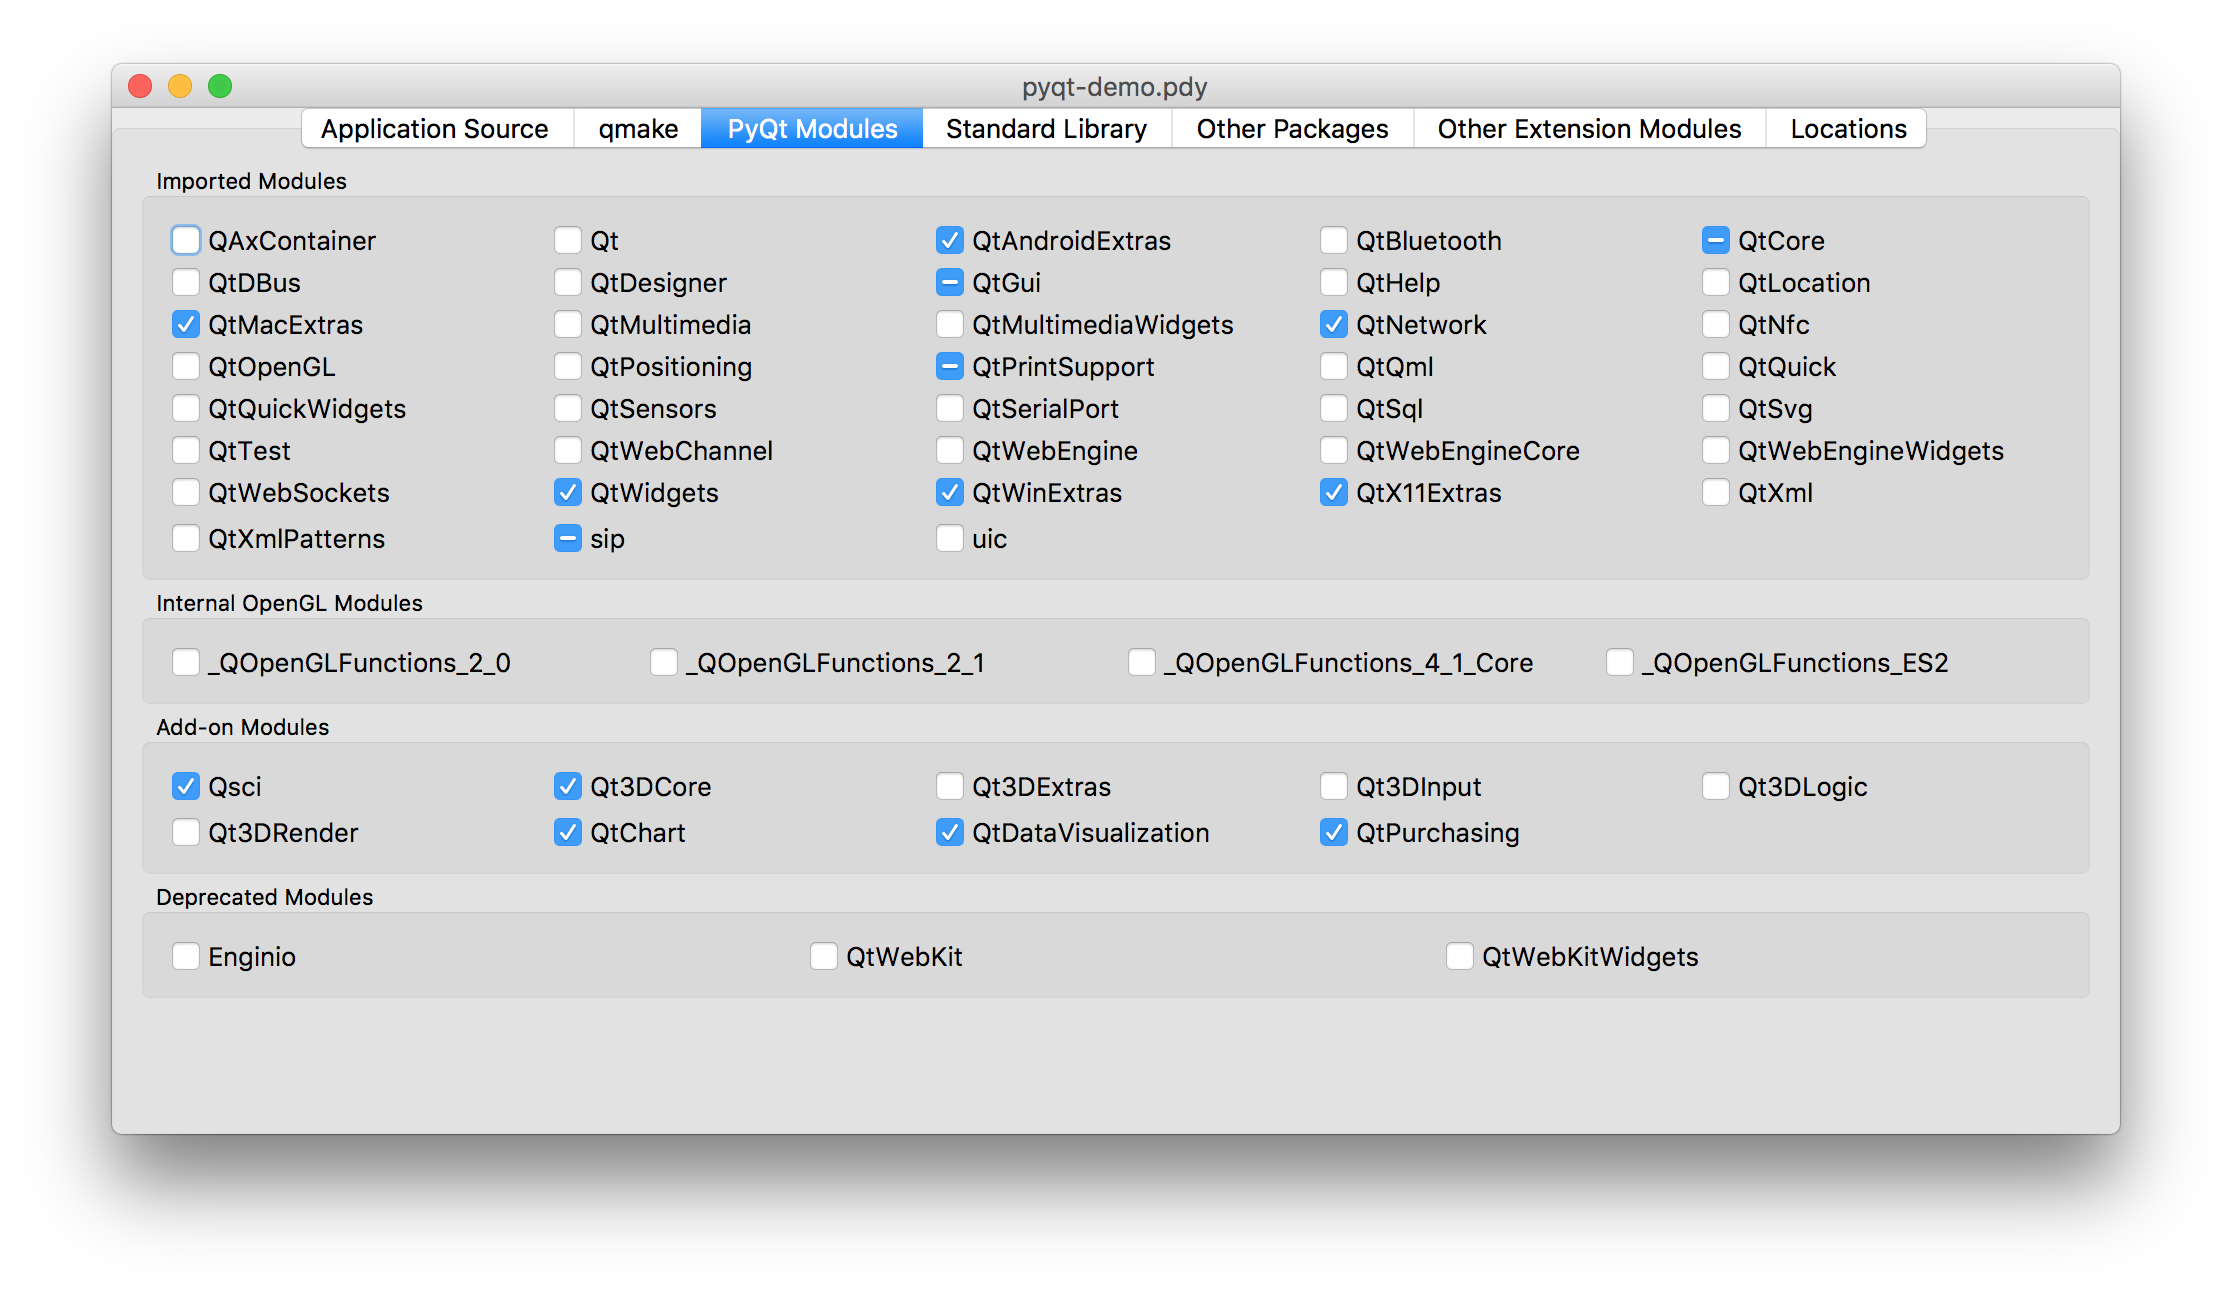
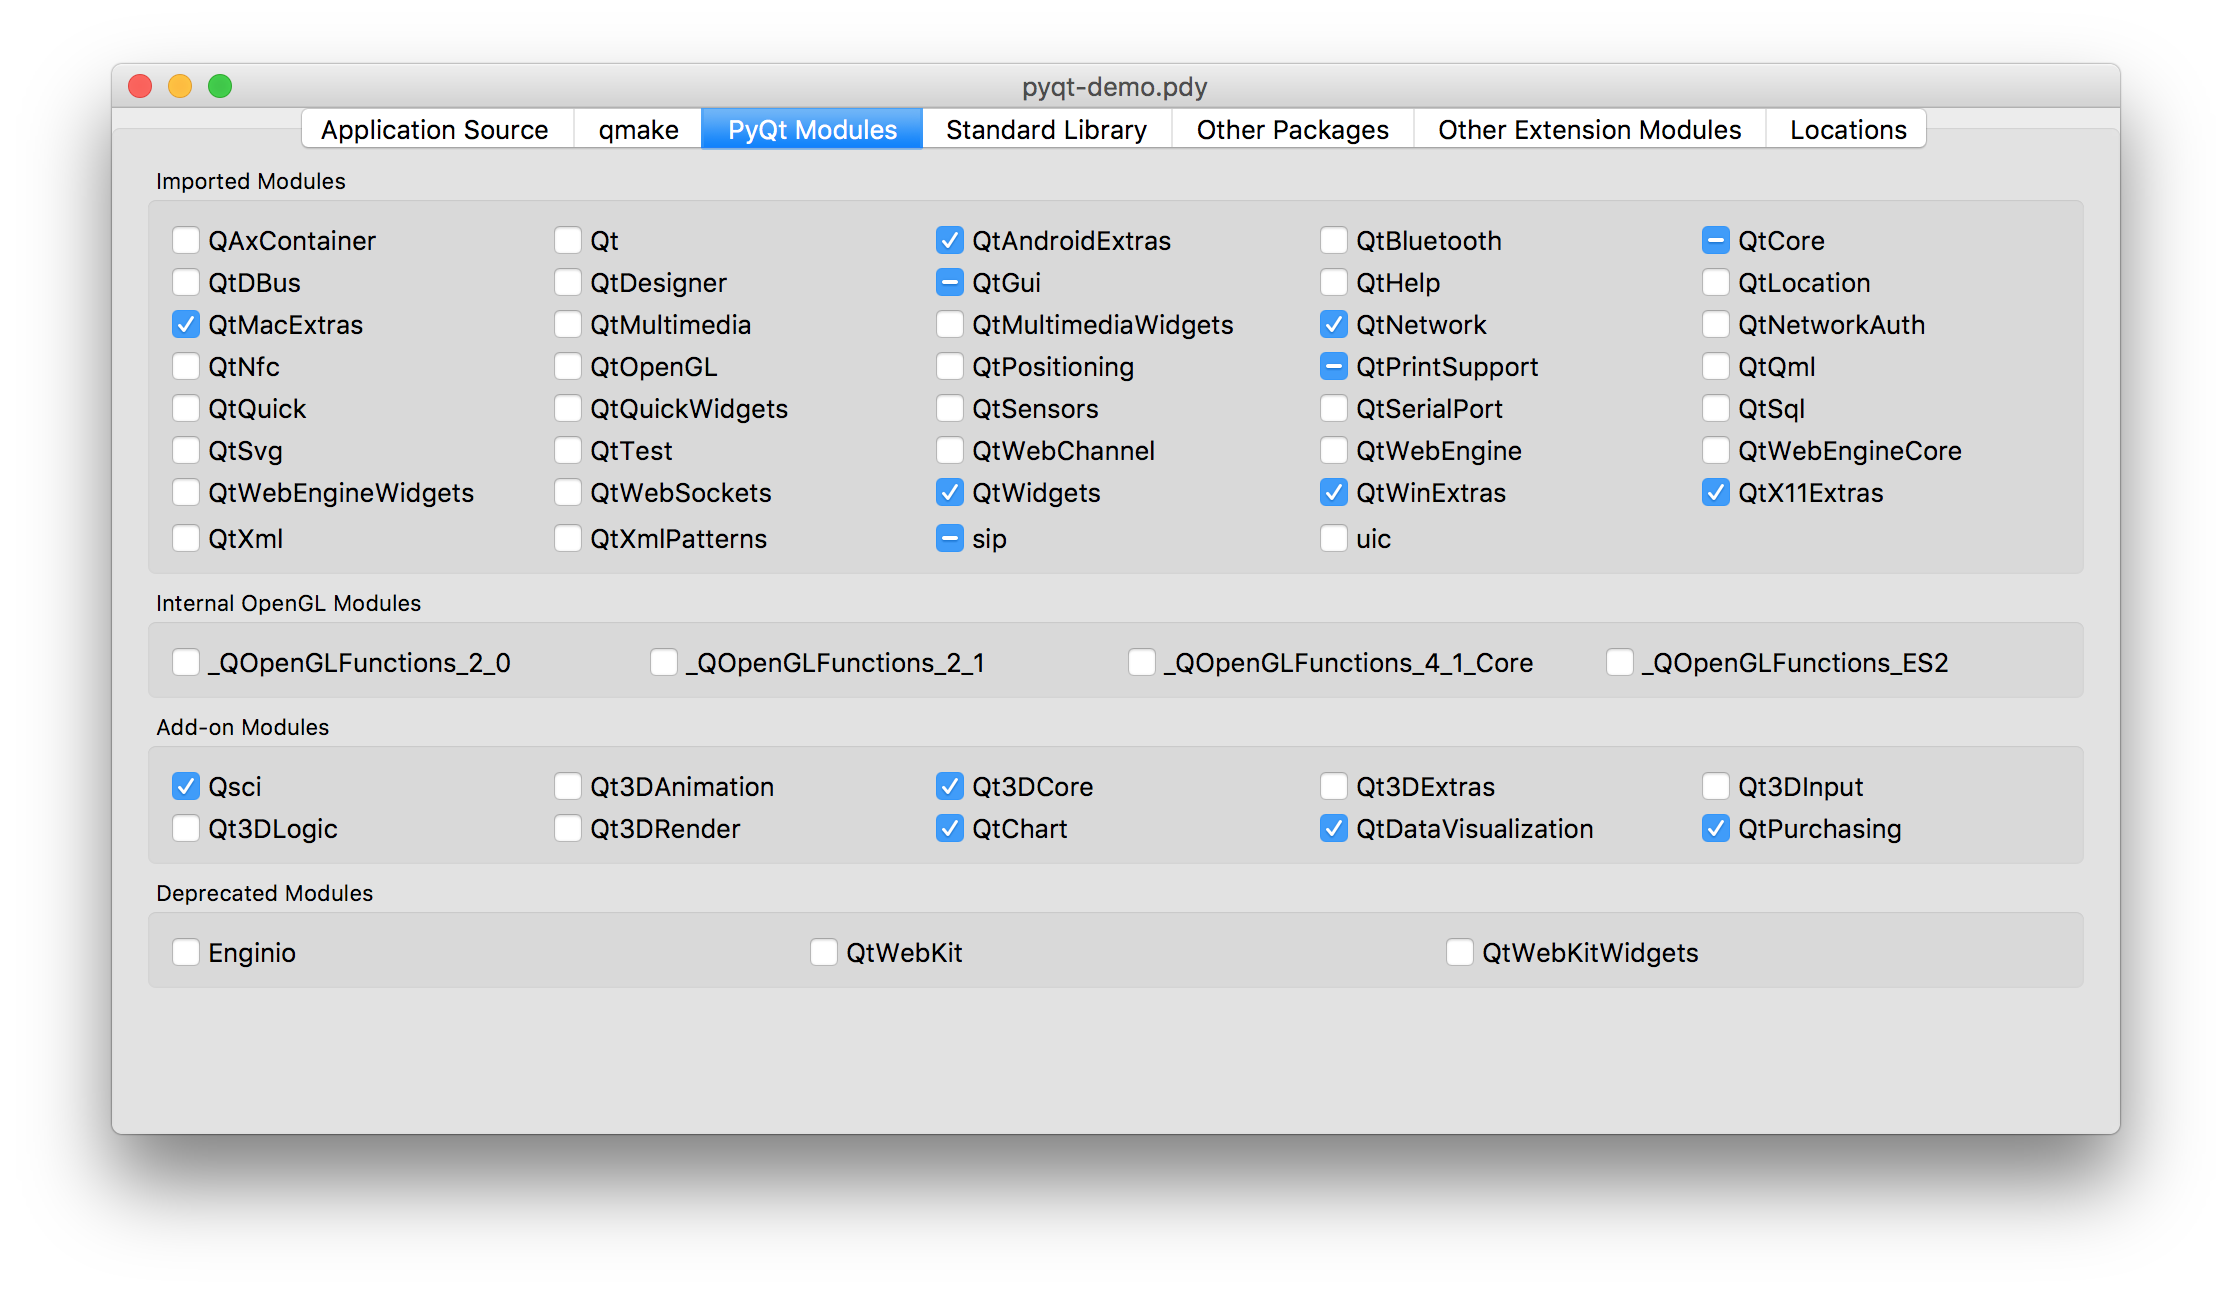
Added support for QtNetworkAuth and Qt3DAnimation.

diff --git a/pyqtdeploy/metadata/pyqt5.py b/pyqtdeploy/metadata/pyqt5.py
@@ -1,4 +1,4 @@
-# Copyright (c) 2017, Riverbank Computing Limited
+# Copyright (c) 2018, Riverbank Computing Limited
 # All rights reserved.
 #
 # Redistribution and use in source and binary forms, with or without
@@ -92,6 +92,10 @@ pyqt5_metadata = {
     'QtNetwork':
         PyQt5Metadata(deps=['QtCore'], gui=False, qt5=['network']),
 
+    'QtNetworkAuth':
+        PyQt5Metadata(deps=['QtNetwork'], gui=False,
+                qt5=['network', 'networkauth']),
+
     'QtNfc':
         PyQt5Metadata(deps=['QtCore'], gui=False, qt5=['nfc']),
 
@@ -180,6 +184,9 @@ pyqt5_metadata = {
         PyQt5Metadata(group='opengl', deps=['QtGui']),
 
     # Add-on modules.
+
+    'Qt3DAnimation':
+        PyQt5Metadata(group='addon', deps=['Qt3DRender'], qt5=['3danimation']),
 
     'Qt3DCore':
         PyQt5Metadata(group='addon', deps=['QtGui'], qt5=['3dcore']),
